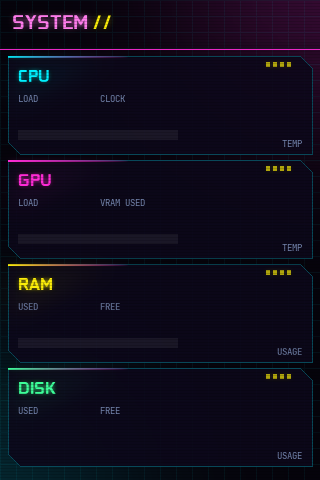
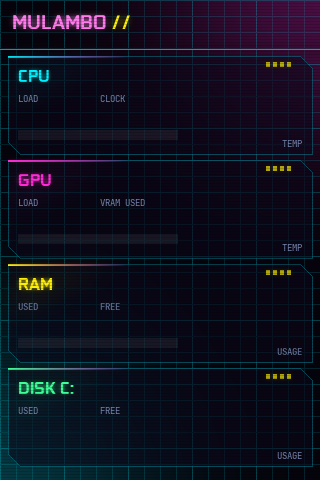
feat: CyberpunkNeon shows PC name, disk drive and memory in GB via optional UNIT theme key

diff --git a/library/stats.py b/library/stats.py
@@ -128,6 +128,14 @@ def display_themed_value(theme_data, value, min_size=0, unit=''):
     )
 
 
+def display_themed_memory_value(theme_data, value_mb, min_size=5):
+    # Optional theme key UNIT: GB shows the value in gigabytes with one decimal (default: megabytes)
+    if theme_data.get("UNIT", "MB") == "GB":
+        display_themed_value(theme_data=theme_data, value=f"{value_mb / 1024:.1f}", min_size=min_size, unit=" G")
+    else:
+        display_themed_value(theme_data=theme_data, value=int(value_mb), min_size=min_size, unit=" M")
+
+
 def display_themed_percent_value(theme_data, value):
     display_themed_value(
         theme_data=theme_data,
@@ -431,12 +439,7 @@ class Gpu:
 
         display_themed_progress_bar(gpu_mem_graph_data, memory_percentage)
         display_themed_percent_radial_bar(gpu_mem_radial_data, memory_percentage)
-        display_themed_value(
-            theme_data=gpu_mem_text_data,
-            value=int(memory_used_mb),
-            min_size=5,
-            unit=" M"
-        )
+        display_themed_memory_value(gpu_mem_text_data, memory_used_mb)
         ################################ end of backward compatibility only
 
         # GPU usage (%)
@@ -488,12 +491,7 @@ class Gpu:
                 logger.warning("Your GPU memory absolute usage (M) is not supported yet")
                 gpu_mem_used_text_data['SHOW'] = False
 
-        display_themed_value(
-            theme_data=gpu_mem_used_text_data,
-            value=int(memory_used_mb),
-            min_size=5,
-            unit=" M"
-        )
+        display_themed_memory_value(gpu_mem_used_text_data, memory_used_mb)
 
         # GPU mem. total memory (M)
         gpu_mem_total_text_data = theme_gpu_data['MEMORY_TOTAL']['TEXT']
@@ -503,12 +501,7 @@ class Gpu:
                 logger.warning("Your GPU total memory capacity (M) is not supported yet")
                 gpu_mem_total_text_data['SHOW'] = False
 
-        display_themed_value(
-            theme_data=gpu_mem_total_text_data,
-            value=int(total_memory_mb),
-            min_size=5,  # Adjust min_size as necessary for your display
-            unit=" M"  # Assuming the unit is in Megabytes
-        )
+        display_themed_memory_value(gpu_mem_total_text_data, total_memory_mb)
 
         # GPU temperature (°C)
         gpu_temp_text_data = theme_gpu_data['TEMPERATURE']['TEXT']
@@ -631,24 +624,12 @@ class Memory:
         display_themed_percent_value(memory_stats_theme_data['VIRTUAL']['PERCENT_TEXT'], virtual_percent)
         display_themed_line_graph(memory_stats_theme_data['VIRTUAL']['LINE_GRAPH'], cls.last_values_memory_virtual)
 
-        display_themed_value(
-            theme_data=memory_stats_theme_data['VIRTUAL']['USED'],
-            value=int(sensors.Memory.virtual_used() / 1024 ** 2),
-            min_size=5,
-            unit=" M"
-        )
-        display_themed_value(
-            theme_data=memory_stats_theme_data['VIRTUAL']['FREE'],
-            value=int(sensors.Memory.virtual_free() / 1024 ** 2),
-            min_size=5,
-            unit=" M"
-        )
-        display_themed_value(
-            theme_data=memory_stats_theme_data['VIRTUAL']['TOTAL'],
-            value=int((sensors.Memory.virtual_free() + sensors.Memory.virtual_used()) / 1024 ** 2),
-            min_size=5,
-            unit=" M"
-        )
+        display_themed_memory_value(memory_stats_theme_data['VIRTUAL']['USED'],
+                                    sensors.Memory.virtual_used() / 1024 ** 2)
+        display_themed_memory_value(memory_stats_theme_data['VIRTUAL']['FREE'],
+                                    sensors.Memory.virtual_free() / 1024 ** 2)
+        display_themed_memory_value(memory_stats_theme_data['VIRTUAL']['TOTAL'],
+                                    (sensors.Memory.virtual_free() + sensors.Memory.virtual_used()) / 1024 ** 2)
 
 
 class Disk:
